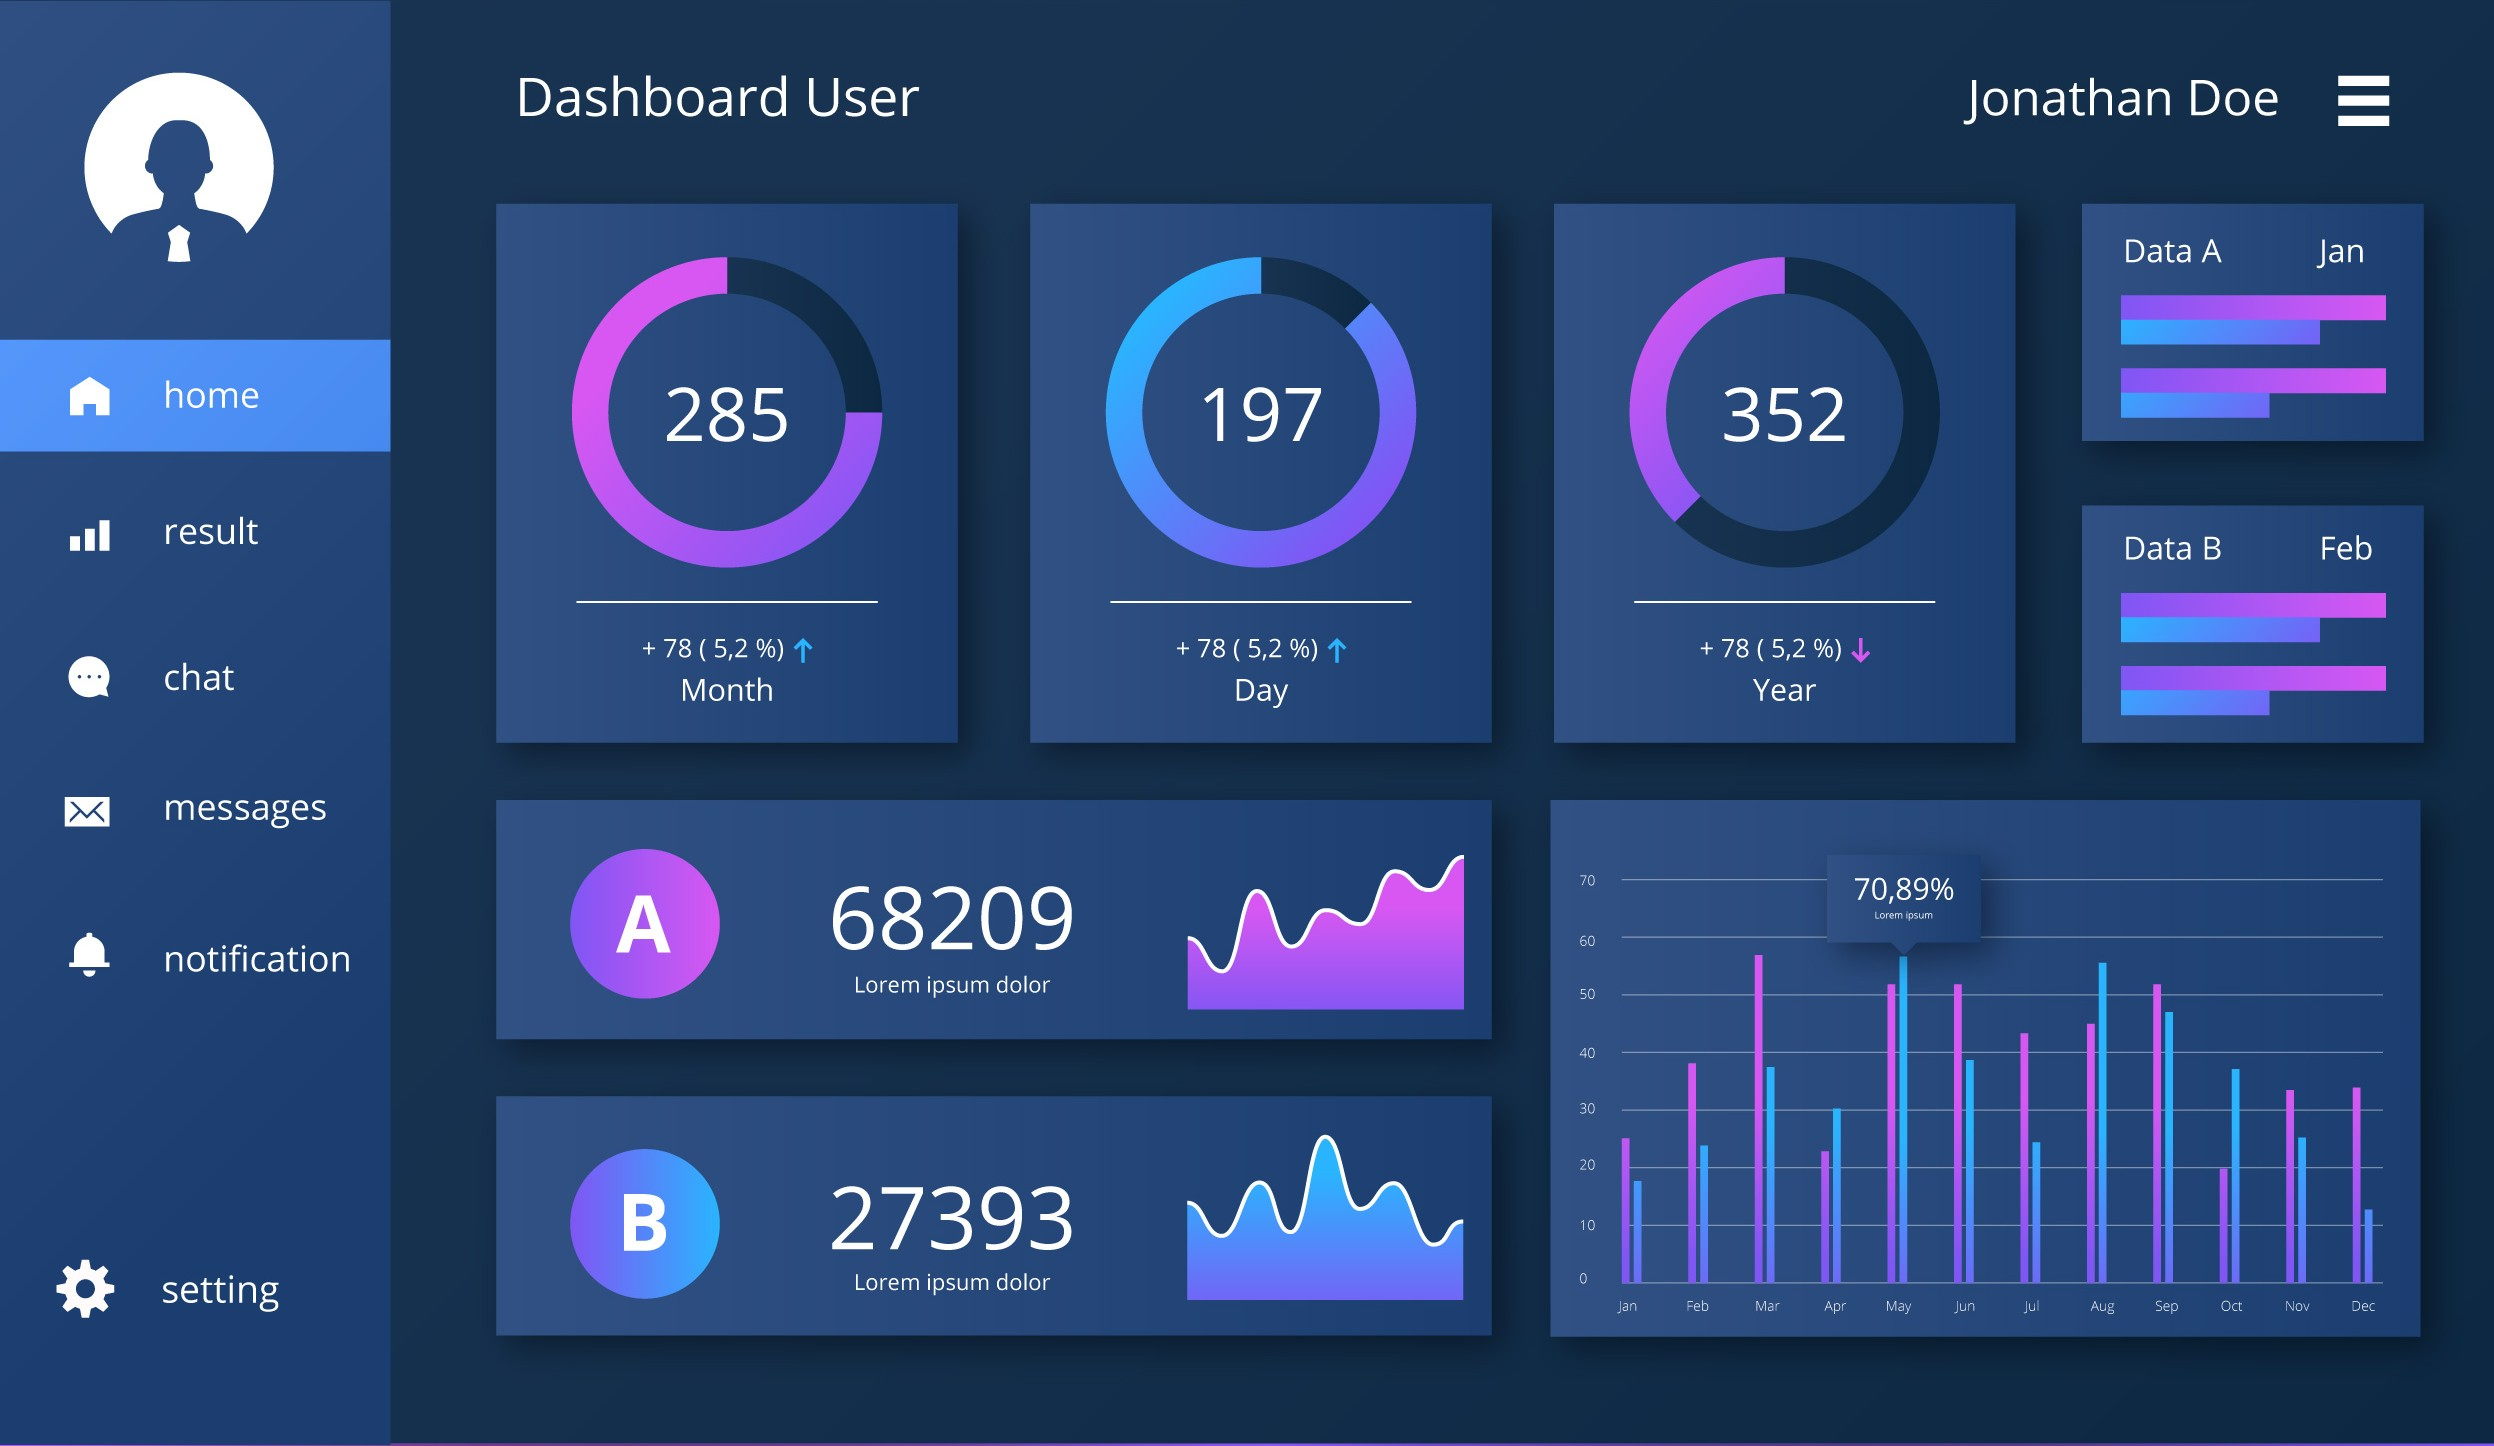
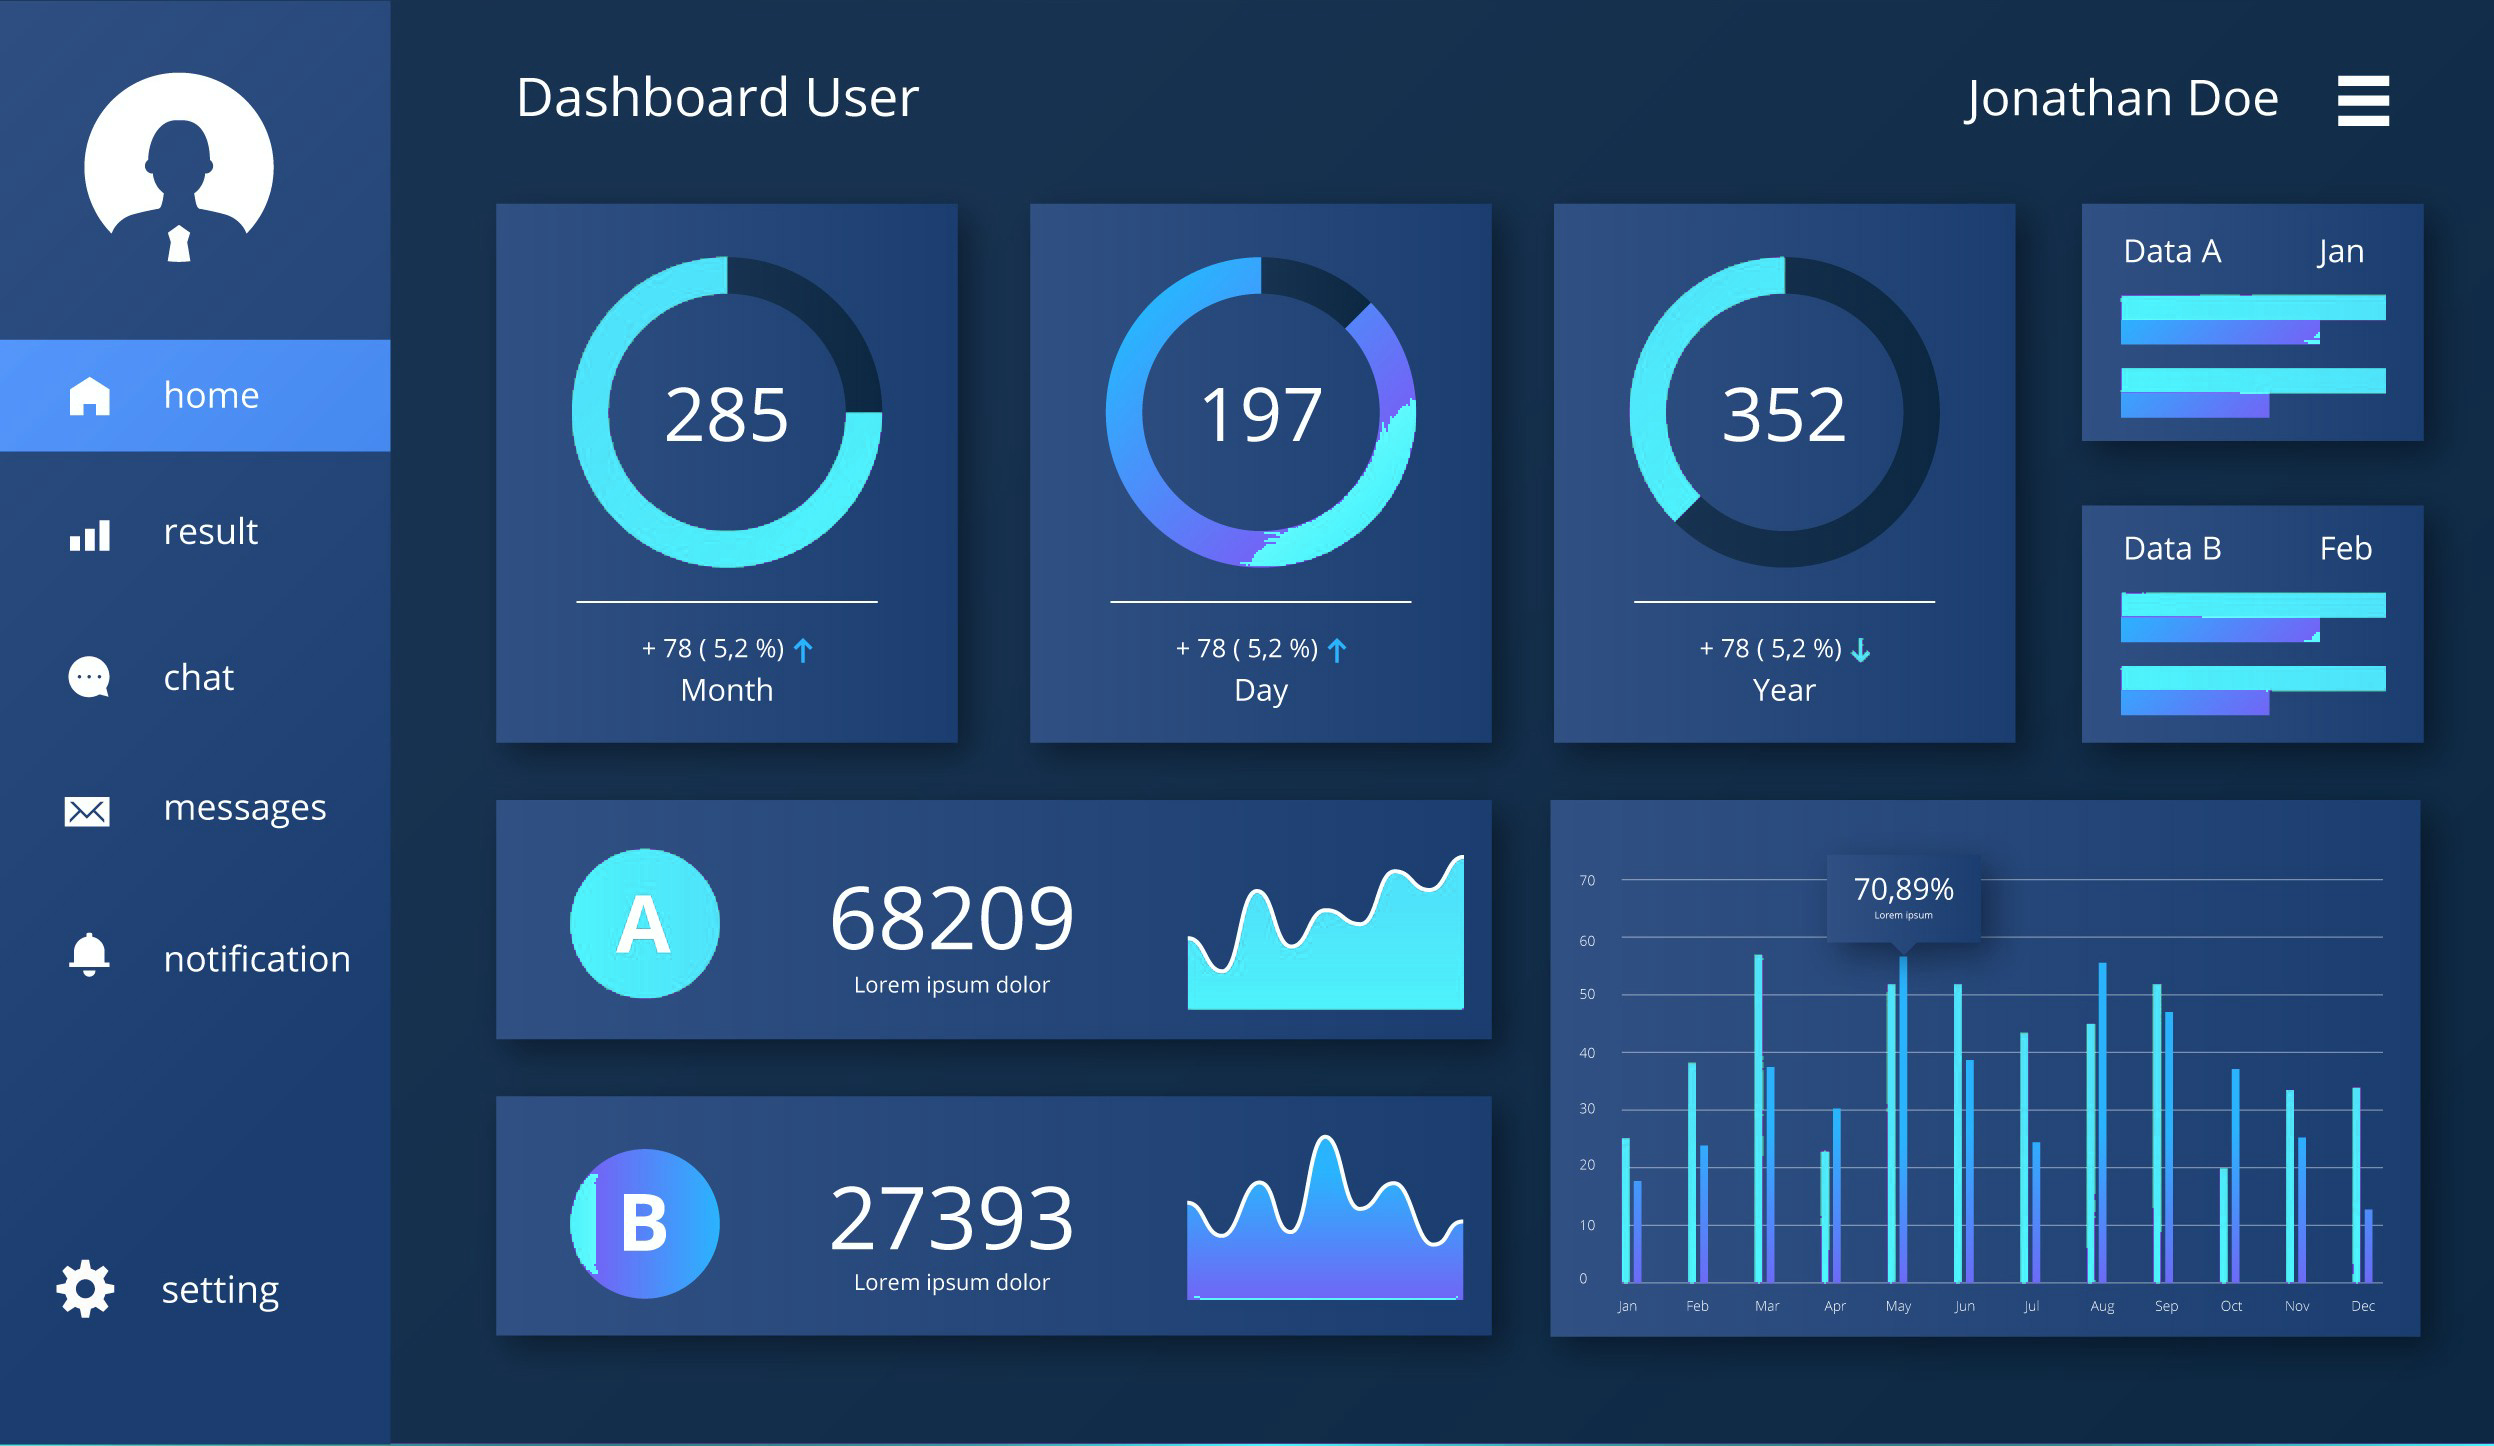
fix(ui): recolor landing and about visuals to cyan theme, align readiness score meter, and frame about illustration

diff --git a/src/components/FeaturePage.jsx b/src/components/FeaturePage.jsx
@@ -170,22 +170,41 @@ const FeaturePage = () => {
       {/* 4. WORKFORCE READINESS SCORE */}
       <section className="py-16 md:py-20 px-6 md:px-20 relative z-10">
         <div className="container mx-auto max-w-7xl grid md:grid-cols-2 items-center gap-14">
-          <div className="flex flex-col items-center justify-center glass-panel rounded-[2.5rem] py-14">
-            <div className="relative w-44 h-44">
-              <svg className="w-full h-full transform -rotate-90">
-                <circle cx="88" cy="88" r="80" stroke="currentColor" strokeWidth="12" fill="transparent" className="text-[#8A9CB7]/20" />
+          <div className="flex flex-col items-center justify-center glass-panel rounded-[2.5rem] py-14 px-8 text-center">
+            <div className="relative w-48 h-48 flex items-center justify-center">
+              <svg className="w-full h-full transform -rotate-90" viewBox="0 0 176 176">
                 <circle 
-                  cx="88" cy="88" r="80" stroke="currentColor" strokeWidth="12" fill="transparent" strokeDasharray="502.6" strokeDashoffset="90" className="text-[#1988A3]" 
+                  cx="88" 
+                  cy="88" 
+                  r="74" 
+                  stroke="currentColor" 
+                  strokeWidth="14" 
+                  fill="transparent" 
+                  className="text-[#8A9CB7]/25" 
+                />
+                <circle 
+                  cx="88" 
+                  cy="88" 
+                  r="74" 
+                  stroke="currentColor" 
+                  strokeWidth="14" 
+                  fill="transparent" 
+                  strokeDasharray="465" 
+                  strokeDashoffset={465 * (1 - (tenant.readinessScore / 100))} 
+                  strokeLinecap="round"
+                  className="text-[#1988A3] transition-all duration-1000 ease-out" 
                 />
               </svg>
-              <div className="absolute inset-0 flex flex-col items-center justify-center">
-                <span className="text-4xl font-black text-[#17233E] tracking-tight">
+              <div className="absolute inset-0 flex flex-col items-center justify-center text-center pointer-events-none select-none">
+                <span className="text-5xl font-black text-[#17233E] tracking-tight leading-none mb-1">
                   {tenant.readinessScore}
                 </span>
-                <span className="text-xs font-mono font-bold text-[#5A6D89] uppercase tracking-widest mt-1">Score / 100</span>
+                <span className="text-[11px] font-mono font-bold text-[#5A6D89] uppercase tracking-wider">
+                  SCORE / 100
+                </span>
               </div>
             </div>
-            <p className="mt-6 font-mono font-bold text-[#1988A3] uppercase tracking-widest text-xs flex items-center gap-2">
+            <p className="mt-6 font-mono font-bold text-[#1988A3] uppercase tracking-widest text-xs flex items-center justify-center gap-2">
               <Activity className="w-4 h-4 animate-pulse" />
               <span>Org Workforce Readiness</span>
             </p>

diff --git a/src/components/AboutPage.jsx b/src/components/AboutPage.jsx
@@ -45,12 +45,14 @@ const AboutPage = () => {
           </div>
           
           <div className="flex justify-center relative group">
-             <div className="absolute inset-0 bg-[#1988A3]/15 rounded-full blur-3xl opacity-50 pointer-events-none" />
-             <img 
-               src={aboutImg} 
-               alt="Intelligence Radar Visual" 
-               className="relative z-10 w-full max-w-md filter drop-shadow-[0_20px_40px_rgba(23,35,62,0.15)]" 
-             />
+             <div className="absolute -inset-4 bg-[#1988A3]/25 rounded-[2.5rem] blur-2xl opacity-60 pointer-events-none" />
+             <div className="relative z-10 bg-gradient-to-br from-[#17233E]/95 via-[#1B3154]/90 to-[#121E33]/95 backdrop-blur-2xl border border-white/20 rounded-[2.5rem] p-4 sm:p-5 shadow-[0_25px_60px_-15px_rgba(23,35,62,0.35)] overflow-hidden">
+               <img 
+                 src={aboutImg} 
+                 alt="Intelligence Radar Visual" 
+                 className="relative z-10 w-full max-w-md rounded-2xl object-cover shadow-inner" 
+               />
+             </div>
           </div>
         </div>
       </section>
